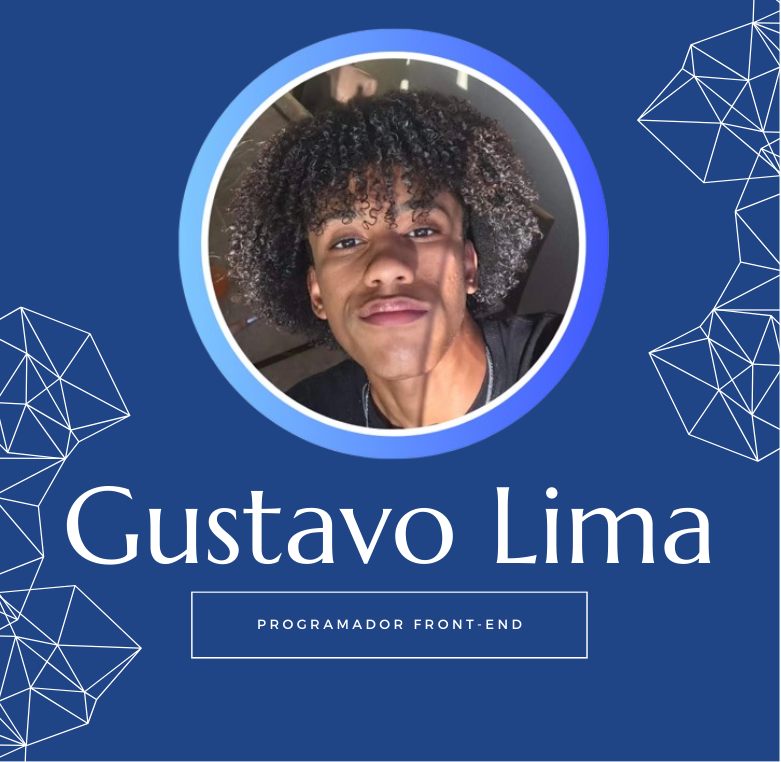
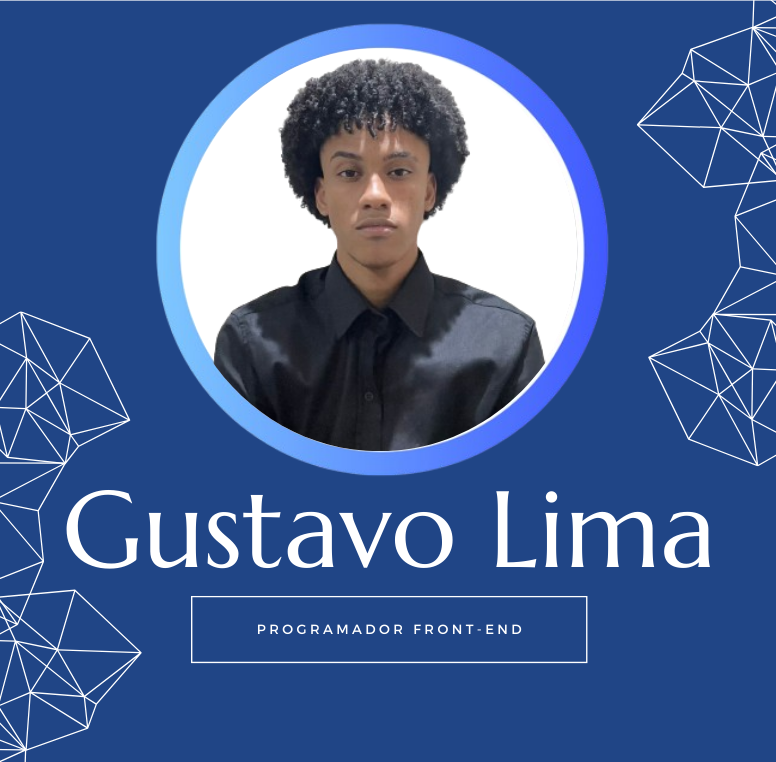
fotos trocadas

diff --git a/css/estilo.css b/css/estilo.css
@@ -36,7 +36,8 @@ body {
 
 
 .Bem-vindo img {
-    width: 100%;
+    padding: 20px 0px 40px;
+    width: 90%;
     object-fit: cover;
 }
 
